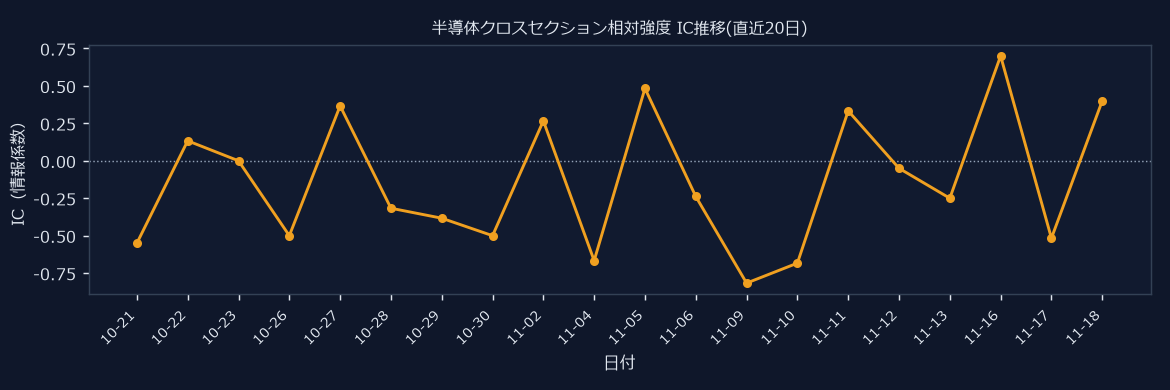
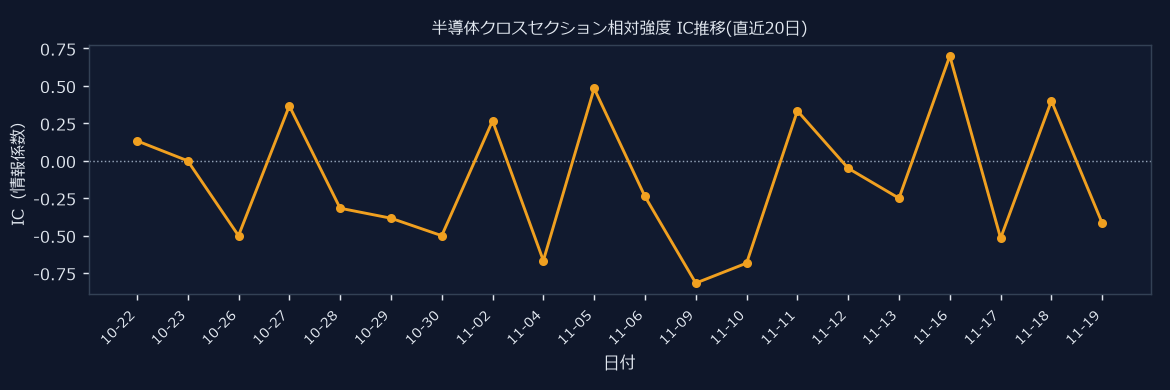
auto: refresh static site (2026-11-19 20:45:55 JST)

diff --git a/docs/index.html b/docs/index.html
@@ -81,8 +81,8 @@ a{color:var(--acc)}.disc{border-top:1px solid var(--border);margin-top:24px;padd
 <body><div class="wrap">
 <h1>🧠 AIセクター ワールドモニター | キオクシア(285A) 投資参考情報（投資は自己責任）</h1>
 <a class="cross-link" href="https://ethanhuntstock.github.io/Keijiban-bunseki/" target="_blank" rel="noopener noreferrer">🔗 285A 掲示板投稿の詳細分析による投資情報（静的版）</a>
-<div class="muted">静的共有版｜生成 2026-11-19 20:35 JST｜価格: Yahoo Finance｜ニュース: RSS｜イベント: 手動正本｜60秒毎に自動更新（ブラウザが自動的に再読み込み）</div>
-<div class="muted">データ取得 11-19 20:35｜公開ページ生成 2026-11-19 20:35 JST（公開サイトへの反映に数分かかることがあります）</div>
+<div class="muted">静的共有版｜生成 2026-11-19 20:45 JST｜価格: Yahoo Finance｜ニュース: RSS｜イベント: 手動正本｜60秒毎に自動更新（ブラウザが自動的に再読み込み）</div>
+<div class="muted">データ取得 11-19 20:45｜公開ページ生成 2026-11-19 20:45 JST（公開サイトへの反映に数分かかることがあります）</div>
 
 <div class="label-note">※「バイアス」「買い目線/売り目線」「発火」「ボラ警戒」は<b>状態を記述するラベル</b>であり売買推奨ではありません。</div>
 <details class="panel"><summary><b>🔤 用語の説明</b>（タップで開く）</summary><ul><li><b>地合いスコア</b>＝マクロ（SOX/円）・メモリ同業・キオクシア固有イベント・ニュース温度を重み付けして合成した観測値。掲示板温度は観測のみ（重み0）。売買推奨ではありません。</li><li><b>型A〜F</b>＝その日の値動きの形を、寄り30分での高安の決まり方と終値の位置から6パターンに機械的に分けたもの（詳細は「本日のチャートの型」の「?」）。場中は暫定です。</li><li><b>ギャップ</b>＝前営業日の終値に対する、寄り値（寄り前は寄り想定）の差の率。</li><li><b>板寄せ</b>＝注文をいったん集めて、売りと買いが釣り合う値段で一度に約定を決める方式（寄り付きと引けで使われます）。</li><li><b>特別気配</b>＝寄り付きで売りと買いが釣り合わないとき、約定せずに気配値だけが示される状態。寄りの約定が遅れる原因の一つです。</li><li><b>寄り値</b>＝その日の最初の約定の価格。寄り前の気配（板の売り買いの気配）とは別の値です。</li><li><b>寄り遅れ日</b>＝285Aの最初の約定が09:00から3分以上遅れた日（観測のみ・原因の断定はしません）。</li></ul></details>
@@ -90,7 +90,7 @@ a{color:var(--acc)}.disc{border-top:1px solid var(--border);margin-top:24px;padd
 <p id='like-button-wrap' class='muted'><button id='like-button' type='button' class='like-btn'>👍</button><span id='like-count-label'>このダッシュボードが役に立ったら押してください（累計 3 いいね）</span></p>
 
 <h2>🤖 AI考察<span class="help" tabindex="0"><span class="help-ico">?</span><span class="help-pop">【数値要約】は、モニターが観測している主要な指標（地合いスコア・285A・ピア・為替・需給・寄りの状態・予定など）の値を、元データのまま定型の文にして約10分ごとに更新する要約です（文章の自動生成はしていません）。<br><br>【Claude考察】は、平日の寄り前・寄り直後・前場引け前・大引け後（急変時は臨時）にClaude(AI)が書いた観測・状況整理で、書かれた時点を明記し、その後の数値は上の数値要約で更新しています。<br><br><b>無料公開データの観測情報であり、投資助言・売買推奨ではありません。</b>更新の時点と周期は、下の「AI考察の予定」を参照してください。値動きへの反映にはタイムラグがあります。</span></span></h2>
-<div class="panel ai-insight-box ai-summary-box"><b>【数値要約｜20:27 更新】</b><div>大引け後・本日(11-19)の終値時点の値</div><div>地合い: 中立 -3.9（前回 11-18 +9.6・前回比 -13.5）／主因=ニュース温度 -7.5pt・メモリピア +3.4pt</div><div>285A: 8,271円（前営業日終値比 +3.07%）・出来高倍率 1.33・テクニカル=弱気・型=寄り底・終日上昇</div><div>ピア: メモリ 平均 +0.79%（最大変動 SKハイニックス +3.41%）／AIチップ/SOX 平均 +1.28%（最大変動 AMD +5.31%）／日本の半導体製造装置関連 平均 +0.77%（最大変動 東京エレクトロン +2.77%）</div><div>為替・先物: USDJPY +0.26%・米10年 5.07%・日経先物 前日比 +2.12%（現物前日終値比 +1.07%）</div><div>需給: 信用倍率 27.10（11-18基準・前営業日比 -2.4%）</div><div>寄り: 寄り完全（遅れ5銘柄・285Aの最初の約定 09:00:14）・費用倍率 直前営業日379.7倍・直近平均352.6倍（往復費用 2.76bp・分割前水準の実測／分割後の試算(暫定) 2.47bp）</div><div>変化点: 前回から大きな変化なし</div><div>予定: 11-23 東証休場(勤労感謝の日)・12-04 米雇用統計(11月分)・12-09 FOMC(12月会合・SEP回・声明は米12-09 14:00 ET=日本時間12-10 04:00)・12-10 米CPI(11月分)・12-11 メジャーSQ(12月限・SQ算出日)（日程は未確定）・12-18 日銀 金融政策決定会合(12月会合・年内最終)</div></div><div class="panel ai-insight-box ai-claude-box"><b>【Claude考察｜11-13 16:36 時点（大引け後）】</b><div>※無料公開データを機械的に集計した観測情報であり、投資助言・売買推奨ではありません。（11-13 大引け後の整理・16:36時点）<br>
+<div class="panel ai-insight-box ai-summary-box"><b>【数値要約｜20:38 更新】</b><div>大引け後・本日(11-19)の終値時点の値</div><div>地合い: 中立 -4.7（前回 11-18 +9.6・前回比 -14.3）／主因=ニュース温度 -7.5pt・メモリピア +3.4pt</div><div>285A: 8,271円（前営業日終値比 +3.07%）・出来高倍率 1.33・テクニカル=弱気・型=寄り底・終日上昇</div><div>ピア: メモリ 平均 +0.79%（最大変動 SKハイニックス +3.41%）／AIチップ/SOX 平均 +1.28%（最大変動 AMD +5.31%）／日本の半導体製造装置関連 平均 +0.77%（最大変動 東京エレクトロン +2.77%）</div><div>為替・先物: USDJPY +0.22%・米10年 5.07%・日経先物 前日比 +2.20%（現物前日終値比 +1.15%）</div><div>需給: 信用倍率 27.10（11-18基準・前営業日比 -2.4%）</div><div>寄り: 寄り完全（遅れ5銘柄・285Aの最初の約定 09:00:14）・費用倍率 直前営業日379.7倍・直近平均352.6倍（往復費用 2.76bp・分割前水準の実測／分割後の試算(暫定) 2.47bp）</div><div>変化点: 前回から大きな変化なし</div><div>予定: 11-23 東証休場(勤労感謝の日)・12-04 米雇用統計(11月分)・12-09 FOMC(12月会合・SEP回・声明は米12-09 14:00 ET=日本時間12-10 04:00)・12-10 米CPI(11月分)・12-11 メジャーSQ(12月限・SQ算出日)（日程は未確定）・12-18 日銀 金融政策決定会合(12月会合・年内最終)</div></div><div class="panel ai-insight-box ai-claude-box"><b>【Claude考察｜11-13 16:36 時点（大引け後）】</b><div>※無料公開データを機械的に集計した観測情報であり、投資助言・売買推奨ではありません。（11-13 大引け後の整理・16:36時点）<br>
 <br>
 ■ 本日の285A<br>
 285Aの本日の終値は9,091円で、前営業日（11-12）の終値9,300円と比べて-2.25%でした。寄り値は9,750円（寄り値の前営業日の終値からの変化は+4.84%）でした。当日高値は9,940円（09:14）、安値は9,013円（13:02）でした。11-12の終値9,300円は11-11の終値9,571円から-2.83%、11-11は11-10の終値9,068円から+5.55%、11-10は11-09の終値8,302円から+9.23%でした。<br>
@@ -108,7 +108,7 @@ a{color:var(--acc)}.disc{border-top:1px solid var(--border);margin-top:24px;padd
 サンディスクは米国時間10-29の取引終了後に2027年度第1四半期決算を発表しました。売上高は110億ドルで前期比+23%・前年同期比+378%、非GAAPの1株利益は49.51ドルでした。第2四半期の売上高見通しは122億〜126億ドルです。あわせて8対1の株式分割（11月19日付）も発表しています。<br>
 <br>
 ■ 需給と今後の予定<br>
-キオクシア（285A）の信用倍率は11-12基準で18.01倍（1つ前の11-11基準は17.71倍）です。今後は11-23に東証休場(勤労感謝の日)、12-04に米雇用統計(11月分)、12-09に米FOMC（米国時間）、12-10に米CPI(11月分)、12-11にメジャーSQ(12月限・SQ算出日)（日程は未確定）が予定されています。以上は将来の値動きを示すものではありません。</div><div class="muted">※この考察は147時間59分前のものです。以降の数値は上の数値要約で更新しています。</div></div><div class="asof-line">根拠データの時点（公開ページ生成時の取得時点）: <span>価格 20:35</span>／<span>マクロ 20:35</span>／<span>ニュース 20:35</span>／<span>掲示板 20:27</span>／<span>地合い 20:35</span></div>
+キオクシア（285A）の信用倍率は11-12基準で18.01倍（1つ前の11-11基準は17.71倍）です。今後は11-23に東証休場(勤労感謝の日)、12-04に米雇用統計(11月分)、12-09に米FOMC（米国時間）、12-10に米CPI(11月分)、12-11にメジャーSQ(12月限・SQ算出日)（日程は未確定）が予定されています。以上は将来の値動きを示すものではありません。</div><div class="muted">※この考察は148時間9分前のものです。以降の数値は上の数値要約で更新しています。</div></div><div class="asof-line">根拠データの時点（公開ページ生成時の取得時点）: <span>価格 20:45</span>／<span>マクロ 20:45</span>／<span>ニュース 20:45</span>／<span>掲示板 20:37</span>／<span>地合い 20:45</span></div>
 <div class="ai-schedule"><b>AI考察の予定</b><div>平日の立会日に、寄り前 08:50／寄り直後 09:10／前場引け前 11:30／大引け後 15:45 の4時点で考察を更新します（考察はClaude(AI)が書きます）。</div><div>土日祝などの休場日は考察を書きません。</div><div>時点の間は、数値のみを約10分ごとに更新します（文章は次の時点まで更新されません）。</div><div>次の予定: 11-20 08:50（寄り前）／直近の更新: 11-13 16:36（大引け後）</div></div>
 
 <h2>🗓 週次サマリー（今週のセクターの流れ）<span class="help" tabindex="0"><span class="help-ico">?</span><span class="help-pop">regime_score_log.csv(既存のOOS台帳と同じ台帳)の直近5営業日を集計しただけの観測パネルです。新規のデータ取得・LLM呼び出しは一切ありません。<br><br><b>観測情報であり売買シグナルではありません。</b>バイアスの当たり外れ(方向的中率)は標本が少なすぎるためここでは判定しません(判定は既存の「📒OOS台帳」を参照)。</span></span></h2>
@@ -123,18 +123,18 @@ a{color:var(--acc)}.disc{border-top:1px solid var(--border);margin-top:24px;padd
 <h2>今日のバイアス（地合いスコア）<span class="help" tabindex="0"><span class="help-ico">?</span><span class="help-pop">複数の判断材料（マクロ・メモリ同業・キオクシア固有イベント・ニュース）を1つに合成した“今日の地合い（売買の傾き）”です。プラスほど買い目線、マイナスほど売り目線。<br><br><b>表の見方</b><br>subscore＝各軸の素点（-1〜+1）／weight＝その軸の重み（合計が1になるよう設計）／寄与＝subscore×weight×100。寄与がプラスの軸ほどバイアスを押し上げ、マイナスの軸ほど押し下げています。<br><br><b>各軸の意味</b><br>マクロ(SOX/円)＝米半導体指数と為替の逆風/追い風／メモリピア＝同業(SKハイニックス・サムスン・マイクロン・サンディスク)の値動き／キオクシア固有イベント(守り)＝決算・増資等の警戒度合い（マイナス方向のみに働く軸）／ニュース温度＝ニュース見出しの強気/弱気を自動採点。<br><br>total_score ＋10超＝ロング寄り／−10未満＝ショート寄り／その間＝中立。<b>機械的な目安で、最終判断は人・1日で断定しない。</b></span></span></h2>
 <div class="panel">
   <span class="bias neutral">中立</span>
-  <span class="score">total -4.8</span>
-  <span class="delta">▼-14.4（前回 11-18 +9.6 中立・変化なし）</span>
-  <div class="muted">時点 11-19 20:35｜status ok
+  <span class="score">total -4.3</span>
+  <span class="delta">▼-13.9（前回 11-18 +9.6 中立・変化なし）</span>
+  <div class="muted">時点 11-19 20:45｜status ok
   </div>
   <img src="images/regime.png" alt="地合いスコア内訳">
-  <table><thead><tr><th>軸</th><th class=num>subscore</th><th class=num>weight</th><th class=num>寄与</th></tr></thead><tbody><tr><td>マクロ(SOX/円)</td><td class=num>-0.0189</td><td class=num>0.35</td><td class='num neg'>-0.66</td></tr><tr><td>メモリピア</td><td class=num>0.1123</td><td class=num>0.3</td><td class='num pos'>+3.37</td></tr><tr><td>キオクシア固有イベント(守り)</td><td class=num>0.0</td><td class=num>0.2</td><td class='num '>+0.00</td></tr><tr><td>ニュース温度</td><td class=num>-0.5</td><td class=num>0.15</td><td class='num neg'>-7.50</td></tr><tr><td>掲示板温度(観測)</td><td class=num>-0.2287</td><td class=num>0.0</td><td class='num '>+0.00</td></tr><tr><td>予想ボラ(観測)</td><td class=num>-0.804</td><td class=num>0.0</td><td class='num '>+0.00</td></tr></tbody></table>
+  <table><thead><tr><th>軸</th><th class=num>subscore</th><th class=num>weight</th><th class=num>寄与</th></tr></thead><tbody><tr><td>マクロ(SOX/円)</td><td class=num>-0.0039</td><td class=num>0.35</td><td class='num neg'>-0.14</td></tr><tr><td>メモリピア</td><td class=num>0.1123</td><td class=num>0.3</td><td class='num pos'>+3.37</td></tr><tr><td>キオクシア固有イベント(守り)</td><td class=num>0.0</td><td class=num>0.2</td><td class='num '>+0.00</td></tr><tr><td>ニュース温度</td><td class=num>-0.5</td><td class=num>0.15</td><td class='num neg'>-7.50</td></tr><tr><td>掲示板温度(観測)</td><td class=num>-0.2276</td><td class=num>0.0</td><td class='num '>+0.00</td></tr><tr><td>予想ボラ(観測)</td><td class=num>-0.804</td><td class=num>0.0</td><td class='num '>+0.00</td></tr></tbody></table>
   <div class="muted">total_score ＋10超＝ロング寄り／−10未満＝ショート寄り／その間＝中立。内訳を見て最終判断は人・1日で断定しない。</div>
-  <div class="plain">掲示板センチメント(強気/弱気の投稿の傾き)を観測用の第5軸として表示しています。今は重みゼロの観測専用で、地合いスコアには含まれません。</div><div class="muted">掲示板温度 -0.23（観測・寄与0）｜灼熱 20／セリクラ 4｜発火 1/9｜11-19 20:27　｜直近6h推移: 強気比<span class="neg">38%</span>（横ばい）</div>
+  <div class="plain">掲示板センチメント(強気/弱気の投稿の傾き)を観測用の第5軸として表示しています。今は重みゼロの観測専用で、地合いスコアには含まれません。</div><div class="muted">掲示板温度 -0.23（観測・寄与0）｜灼熱 20／セリクラ 4｜発火 1/9｜11-19 20:37　｜直近6h推移: 強気比<span class="neg">33%</span>（横ばい）</div>
 </div>
 
 <h2>寄り前ブリーフ<span class="help" tabindex="0"><span class="help-ico">?</span><span class="help-pop">前夜の米国市場（SOX指数・マイクロン等）と為替・金利から、今朝のキオクシア(285A)の寄り付き方向（上ギャップ＝高く始まる/下ギャップ＝安く始まる）を推定します。“攻め”は順張りしやすい地合い、“守り”は慎重・無理しない地合い。<br><br><b>表の項目</b><br>各行＝前夜の米国市場や為替の変化率(値%)に重み(weight)を掛けて寄与に変換したもの。SOX指数（フィラデルフィア半導体指数）＝米半導体株の代表指数／マイクロン(MU)・サンディスク(SNDK)＝キオクシアと同じNAND/DRAM同業の米国株／エヌビディア(NVDA)＝AI需要の代表株／ドル円(USD/JPY)＝前夜からの為替変化（円安＝寄与＋）／米10年金利(^TNX)＝米国債10年利回り（配信値を1/10に正規化。上昇はグロース株に逆風）。</span></span></h2>
-<div class="panel"><div class="plain">前夜の米国市場と為替・金利から、今朝のキオクシア(285A)の寄り付き方向を推定した記述です。▼ 下ギャップ＝高く/安く始まる見立て、「守り」＝攻め(順張りしやすい)/守り(慎重)/中立のいずれか。</div><div class="muted"><b>▼ 下ギャップ</b>　守り　日経先物の前日比（NIY=F） +2.12%（NIY=F）　現物前日終値比 +1.07%（先物終値÷現物2026-11-19終値−1・参考）</div><table><thead><tr><th>項目</th><th class=num>値%</th><th class=num>weight</th><th class=num>寄与</th><th>時点/注記</th></tr></thead><tbody><tr><td>SOX指数（フィラデルフィア半導体）</td><td class='num neg'>-0.49%</td><td class=num>0.3</td><td class='num neg'>-0.146</td><td class=muted>現値%（当日始値→直近値・前日終値比ではない） · 11-19 20:35</td></tr><tr><td>マイクロン（MU）</td><td class='num neg'>-1.00%</td><td class=num>0.15</td><td class='num neg'>-0.150</td><td class=muted>直近の米国引け · 11-19 20:35</td></tr><tr><td>エヌビディア（NVDA）</td><td class='num neg'>-2.89%</td><td class=num>0.15</td><td class='num neg'>-0.434</td><td class=muted>直近の米国引け · 11-19 20:35</td></tr><tr><td>サンディスク（SNDK）</td><td class='num neg'>-2.64%</td><td class=num>0.15</td><td class='num neg'>-0.396</td><td class=muted>直近の米国引け · 11-19 20:35</td></tr><tr><td>ドル円（USD/JPY）</td><td class='num pos'>+0.21%</td><td class=num>0.15</td><td class='num pos'>+0.031</td><td class=muted>夜間変化%（円安=+寄与） · 11-19 20:35</td></tr><tr><td>米10年金利（^TNX）</td><td class='num neg'>-0.73%</td><td class=num>-0.1</td><td class='num pos'>+0.072</td><td class=muted>10年金利(1/10正規化)前日比%・上昇=逆風 · 11-19 20:35</td></tr></tbody></table></div>
+<div class="panel"><div class="plain">前夜の米国市場と為替・金利から、今朝のキオクシア(285A)の寄り付き方向を推定した記述です。▼ 下ギャップ＝高く/安く始まる見立て、「守り」＝攻め(順張りしやすい)/守り(慎重)/中立のいずれか。</div><div class="muted"><b>▼ 下ギャップ</b>　守り　日経先物の前日比（NIY=F） +2.27%（NIY=F）　現物前日終値比 +1.22%（先物終値÷現物2026-11-19終値−1・参考）</div><table><thead><tr><th>項目</th><th class=num>値%</th><th class=num>weight</th><th class=num>寄与</th><th>時点/注記</th></tr></thead><tbody><tr><td>SOX指数（フィラデルフィア半導体）</td><td class='num neg'>-0.49%</td><td class=num>0.3</td><td class='num neg'>-0.146</td><td class=muted>現値%（当日始値→直近値・前日終値比ではない） · 11-19 20:45</td></tr><tr><td>マイクロン（MU）</td><td class='num neg'>-1.00%</td><td class=num>0.15</td><td class='num neg'>-0.150</td><td class=muted>直近の米国引け · 11-19 20:45</td></tr><tr><td>エヌビディア（NVDA）</td><td class='num neg'>-2.89%</td><td class=num>0.15</td><td class='num neg'>-0.434</td><td class=muted>直近の米国引け · 11-19 20:45</td></tr><tr><td>サンディスク（SNDK）</td><td class='num neg'>-2.64%</td><td class=num>0.15</td><td class='num neg'>-0.396</td><td class=muted>直近の米国引け · 11-19 20:45</td></tr><tr><td>ドル円（USD/JPY）</td><td class='num pos'>+0.24%</td><td class=num>0.15</td><td class='num pos'>+0.035</td><td class=muted>夜間変化%（円安=+寄与） · 11-19 20:45</td></tr><tr><td>米10年金利（^TNX）</td><td class='num neg'>-0.73%</td><td class=num>-0.1</td><td class='num pos'>+0.072</td><td class=muted>10年金利(1/10正規化)前日比%・上昇=逆風 · 11-19 20:45</td></tr></tbody></table></div>
 
 <h2>本日のギャップとチャート型の傾向（285A・観測）<span class="help" tabindex="0"><span class="help-ico">?</span><span class="help-pop">前営業日終値から本日の始値（寄り値）がどれだけ離れたか（ギャップ%）と、その向き（アップ／ダウン）と「型」（往復型／トレンド型）との関係を、台帳の直近40営業日で毎朝確かめた結果です。上下とも8日以上あり、往復型の割合の差が20pt以上で統計的にも有意（z値1.64以上）な日だけ傾向文を表示し、確認できない日は「確認されていません」と表示します（発見時の標本では差が見えましたが、その後の期間では差が消えているため固定の傾向文はやめました）。前向きの検証はまだ済んでいません。<b>予測ではなく、売買シグナルでもありません。</b></span></span></h2>
 <div class="panel"><div class="muted">本日のギャップ＝<b>-2.49%</b>（ギャップダウン）</div><div class="plain">直近40営業日の観測では、ギャップの向きと型（往復型／トレンド型）の関係は確認されていません。</div><div class="muted">傾向であり予測ではありません（既視データでの観測にとどまり、前向き検証は未了です）。</div></div>
@@ -153,7 +153,7 @@ a{color:var(--acc)}.disc{border-top:1px solid var(--border);margin-top:24px;padd
 <div class="muted">本日の値動きの型（ローソク足パターン・観測）: 該当パターンなし</div><div class="muted">ダイバージェンス（日足・価格とRSIの逆行・観測）: <span class="badge pos">強気(下げ渋り)</span></div><div class="muted">形状・逆行の機械的な検出であり、いずれも売買シグナルではない。</div>
 </div>
 <div class="panel"><div class="plain">「往復実効費用」とは、株を買ってから売るまでに実質的にかかるコスト（買値と売値の差＝スプレッド等）のことです。今日の値動きの大きさが、このコストの何倍あったかを見ると「動いた分がコストで消えていないか」が分かります。</div><b>往復実効費用との比較（観測）</b><br>本日の値動き 306.5bp ＝ 往復実効費用 2.76bp（板ウォーク実測）（分割前水準・再測定済の試算は下記） の <b class=pos>111.1倍</b><div class="muted">見方: <span class=pos>緑(2倍以上)</span>＝値動きが費用を明確に上回る／<span class=amber>橙(1〜2倍)</span>＝費用に埋もれやすい／<span class=neg>赤(1倍未満)</span>＝費用が値動きを上回る。</div><div class="muted">※分割後の再測定（確定）：分割（2026-09-29）後の板の気配から往復の実質コストを試算すると 2.47bp（36日分・前提=板の気配の差から往復コストを推定）。上の分割前の値は参考です。<br>この試算費用で見ると、本日の値動きは費用の <b>124.3倍</b>（確定）です。</div></div>
-<div class="panel"><div class="plain">「指値注文」とは、買いたい・売りたい値段を自分で指定して出す注文のことです（成行注文はその時の市場価格ですぐ約定しますが、指値はその価格に達するまで待つ注文です）。この表は、その指値注文が実際にどれくらいの割合で成立し（約定率）、成立までに何秒かかったか（約定まで）を銘柄ごとに集計したものです。</div><b>指値執行の質（観測・売買シグナルでない）</b><table><thead><tr><th>銘柄</th><th class=num>約定率</th><th class=num>約定まで(中央)</th></tr></thead><tbody><tr><td>285A</td><td class='num pos'>100.0%</td><td class=num>0.9秒</td></tr><tr><td>6146</td><td class='num pos'>100.0%</td><td class=num>4.4秒</td></tr><tr><td>6920</td><td class='num amber'>76.9%</td><td class=num>4.4秒</td></tr><tr><td>8035</td><td class='num pos'>100.0%</td><td class=num>0.1秒</td></tr></tbody></table><div class="muted">見方: <span class=pos>緑(80%以上)</span>＝指値が機能しやすい／<span class=amber>橙(50〜80%)</span>／<span class=neg>赤(50%未満)</span>＝約定しにくい。</div><div class="muted">執行環境の記述であり売買シグナルではない。pret30s_bpは観測/MDE=50%でまだ検出圏外のため使用しない</div></div>
+<div class="panel"><div class="plain">「指値注文」とは、買いたい・売りたい値段を自分で指定して出す注文のことです（成行注文はその時の市場価格ですぐ約定しますが、指値はその価格に達するまで待つ注文です）。この表は、その指値注文が実際にどれくらいの割合で成立し（約定率）、成立までに何秒かかったか（約定まで）を銘柄ごとに集計したものです。</div><b>指値執行の質（観測・売買シグナルでない）</b><table><thead><tr><th>銘柄</th><th class=num>約定率</th><th class=num>約定まで(中央)</th></tr></thead><tbody><tr><td>285A</td><td class='num pos'>100.0%</td><td class=num>0.9秒</td></tr><tr><td>6146</td><td class='num amber'>66.7%</td><td class=num>20.1秒</td></tr><tr><td>6920</td><td class='num amber'>75.0%</td><td class=num>0.7秒</td></tr><tr><td>8035</td><td class='num pos'>100.0%</td><td class=num>0.1秒</td></tr></tbody></table><div class="muted">見方: <span class=pos>緑(80%以上)</span>＝指値が機能しやすい／<span class=amber>橙(50〜80%)</span>／<span class=neg>赤(50%未満)</span>＝約定しにくい。</div><div class="muted">執行環境の記述であり売買シグナルではない。pret30s_bpは観測/MDE=50%でまだ検出圏外のため使用しない</div></div>
 
 <h2>テクニカル総合判定（285A）<span class="help" tabindex="0"><span class="help-ico">?</span><span class="help-pop">価格・出来高そのものから見た複合判定です。上の「今日のバイアス」（マクロ/同業ピア/キオクシア固有イベント/ニュース由来の複合）とは別の観点で、こちらは日足のテクニカル指標16種(移動平均・MACD・ADX/DI・スーパートレンド・パラボリックSAR・一目雲・RSI・ストキャス・CCI・Williams%R・ボリンジャー%b・OBV傾き・CMF・MFI)を等加重で合議した5段階判定です。両者が同じ方向を向いていれば材料と値動きが揃っている目安です。<br><br><b>MTFマトリックス</b>＝短期(5営業日束ね)/中期(20営業日束ね)/長期(60営業日束ね)の疑似的な3スパンで同じ16指標がどちらを向いているかの一覧。285Aは上場から日が浅く長期側は本数不足で「データ不足」になることがあります。<br><br><b>等加重の記述的集約であり、売買判断・将来予測を保証しません。</b></span></span></h2>
 <div class="panel">
@@ -194,7 +194,7 @@ a{color:var(--acc)}.disc{border-top:1px solid var(--border);margin-top:24px;padd
 <div class="panel"><div class="plain">前日(D0)の米国半導体株の値動きと、その翌営業日(D+1)・翌々営業日(D+2)の日本の半導体株の値動きを、ただ並べて記録しているだけの表です。「米国が上がったから日本も上がる」という因果関係が確認されているわけではありません。</div><div class="muted">① 米国ピア D0（2026-11-19）</div><table><tbody><tr><td>AMD</td><td class='num '>—</td></tr><tr><td>AVGO</td><td class='num '>—</td></tr><tr><td>MU</td><td class='num '>—</td></tr><tr><td>NVDA</td><td class='num '>—</td></tr><tr><td>SNDK</td><td class='num '>—</td></tr><tr><td>TSM</td><td class='num '>—</td></tr></tbody></table><div class="muted">② 日本半導体11銘柄 D+1 / ③ D+2</div><table><thead><tr><th></th><th class=num>D+1</th><th class=num>D+2</th></tr></thead><tbody><tr><td>285A</td><td class='num '>—</td><td class='num '>—</td></tr><tr><td>4062</td><td class='num '>—</td><td class='num '>—</td></tr><tr><td>4063</td><td class='num '>—</td><td class='num '>—</td></tr><tr><td>6146</td><td class='num '>—</td><td class='num '>—</td></tr><tr><td>6526</td><td class='num '>—</td><td class='num '>—</td></tr><tr><td>6723</td><td class='num '>—</td><td class='num '>—</td></tr><tr><td>6857</td><td class='num '>—</td><td class='num '>—</td></tr><tr><td>6920</td><td class='num '>—</td><td class='num '>—</td></tr><tr><td>6963</td><td class='num '>—</td><td class='num '>—</td></tr><tr><td>7735</td><td class='num '>—</td><td class='num '>—</td></tr><tr><td>8035</td><td class='num '>—</td><td class='num '>—</td></tr></tbody></table><div class="muted">（事前登録後・主検定窓に含まれる観測）｜2026-09-06 18:04 JST 事前登録(A1)に基づく観測記録です。判定(GO/NO-GO)はまだ行っていません。主検定窓は2026-09-07以降のデータで、十分な日数が蓄積されるまでは記述としてのみ扱います。売買シグナルではありません。</div></div>
 
 <h2>需給×相対強度（観測）<span class="help" tabindex="0"><span class="help-ico">?</span><span class="help-pop">個人投資家の売買比率の代理指標(個人フロー代理)と、半導体装置・周辺銘柄グループ内での相対的な強さ(クロスセクション相対強度)を並べた観測パネルです。285Aのように株価水準が高い銘柄では個人フロー代理が算出できず「—」表示になることがあります(飽和・捏造ではありません)。クロスセクション相対強度は固定9銘柄バスケット(285A・KOKUSAI ELECTRICは含まれません)の集計値です。<br><br><b>見方（色の意味）</b><br>「個人ネット」・IC は<span class=pos>緑＝プラス</span>／<span class=neg>赤＝マイナス</span>で色分け。「個人シェア」は比率(0〜1)そのもので符号が無いため無色です。<b>色が付いていても判定はまだ出ていません。「今日の並び」という記述としてのみ扱ってください。</b></span></span></h2>
-<div class="panel"><div class="plain">「個人シェア」は、その銘柄の売買のうちどれくらいが個人投資家によるものかの推定値です（100%に近いほど個人中心、低いほど機関投資家等が多い）。「個人ネット」はその個人の売買が買いと売りのどちらに傾いているかを示します。半導体の製造装置・周辺の主要9銘柄をひとまとめにして、その日どの銘柄が相対的に値上がり・値下がりしたかの「並び方の規則性」をIC(情報係数)という数値で表していますが、明日の値動きを予測する力があるとは確認されていません。</div><table><thead><tr><th>銘柄</th><th class=num>個人シェア</th><th class=num>個人ネット</th></tr></thead><tbody><tr><td>285A</td><td class=num>15.9%</td><td class='num neg'>-4.5%</td></tr><tr><td>8035</td><td class=num>36.7%</td><td class='num neg'>-26.2%</td></tr><tr><td>6920</td><td class=num>8.9%</td><td class='num neg'>-15.9%</td></tr><tr><td>6857</td><td class=num>4.9%</td><td class='num neg'>-0.9%</td></tr><tr><td>6146</td><td class=num>18.5%</td><td class='num neg'>-1.9%</td></tr><tr><td>7735</td><td class=num>74.8%</td><td class='num pos'>+3.7%</td></tr><tr><td>6525</td><td class=num>67.0%</td><td class='num neg'>-61.8%</td></tr></tbody></table><div class="muted">クロスセクション相対強度(2026-11-18　gross 29.9bp　net(base) 25.9bp): IC <span class="pos">+0.400</span>　9銘柄固定バスケット(285A・6525は含まれず): 8035,6857,6920,6146,6723,6963,4063,3436,7735</div><div class="muted" style="margin-top:6px">IC推移(直近20日)</div><img src="images/ic_history.png" alt="IC推移"></div>
+<div class="panel"><div class="plain">「個人シェア」は、その銘柄の売買のうちどれくらいが個人投資家によるものかの推定値です（100%に近いほど個人中心、低いほど機関投資家等が多い）。「個人ネット」はその個人の売買が買いと売りのどちらに傾いているかを示します。半導体の製造装置・周辺の主要9銘柄をひとまとめにして、その日どの銘柄が相対的に値上がり・値下がりしたかの「並び方の規則性」をIC(情報係数)という数値で表していますが、明日の値動きを予測する力があるとは確認されていません。</div><table><thead><tr><th>銘柄</th><th class=num>個人シェア</th><th class=num>個人ネット</th></tr></thead><tbody><tr><td>285A</td><td class=num>17.9%</td><td class='num pos'>+9.1%</td></tr><tr><td>8035</td><td class=num>39.6%</td><td class='num neg'>-27.2%</td></tr><tr><td>6920</td><td class=num>10.6%</td><td class='num pos'>+16.4%</td></tr><tr><td>6857</td><td class=num>6.0%</td><td class='num pos'>+0.6%</td></tr><tr><td>6146</td><td class=num>20.4%</td><td class='num pos'>+12.6%</td></tr><tr><td>7735</td><td class=num>71.9%</td><td class='num neg'>-53.0%</td></tr><tr><td>6525</td><td class=num>70.9%</td><td class='num pos'>+39.8%</td></tr></tbody></table><div class="muted">クロスセクション相対強度(2026-11-19　gross -83.3bp　net(base) -87.3bp): IC <span class="neg">-0.417</span>　9銘柄固定バスケット(285A・6525は含まれず): 8035,6857,6920,6146,6723,6963,4063,3436,7735</div><div class="muted" style="margin-top:6px">IC推移(直近20日)</div><img src="images/ic_history.png" alt="IC推移"></div>
 
 </div>
 <div class="tabpane" data-tab-panel="risk">
@@ -207,7 +207,7 @@ a{color:var(--acc)}.disc{border-top:1px solid var(--border);margin-top:24px;padd
 <h3>過去イベント類型(参考・件数集計)</h3><div class=muted>その他 17件／株主総会 1件／決算 11件／金融政策 10件</div><div class="muted">2027-02-12　[決算]　キオクシア 第3四半期決算（10-12月）</div><div class="muted">2026-12-18　[金融政策]　日銀金融政策決定会合（12月）</div><div class="muted">2026-12-11　[その他]　米CPI（11月分）</div></div>
 
 <h2>マクロ（USDJPY / 金利 / FOMC）<span class="help" tabindex="0"><span class="help-ico">?</span><span class="help-pop">円相場・米金利・次回FOMCまでの日数です。円高はキオクシア(輸出採算)に逆風、米金利上昇はグロース半導体のバリュエーションに逆風という見方の目安です。</span></span></h2>
-<div class="panel"><div class="plain">円相場・米金利・次回FOMCまでの日数です。円高はキオクシア(輸出採算)に逆風、米金利上昇はグロース半導体のバリュエーションに逆風という見方の目安です。</div><table><tbody><tr><td>ドル円(USD/JPY)</td><td class="num pos">159.84円 （+0.21%）</td></tr><tr><td>米10年金利(^TNX)</td><td class="num pos">5.07% （-3.7bp）</td></tr><tr><td>次回FOMCまで</td><td class=num>20日（2026-12-09）</td></tr></tbody></table><div class="muted">円高=285A逆風 / 金利上昇=グロース半導体に逆風</div></div>
+<div class="panel"><div class="plain">円相場・米金利・次回FOMCまでの日数です。円高はキオクシア(輸出採算)に逆風、米金利上昇はグロース半導体のバリュエーションに逆風という見方の目安です。</div><table><tbody><tr><td>ドル円(USD/JPY)</td><td class="num pos">159.88円 （+0.23%）</td></tr><tr><td>米10年金利(^TNX)</td><td class="num pos">5.07% （-3.7bp）</td></tr><tr><td>次回FOMCまで</td><td class=num>20日（2026-12-09）</td></tr></tbody></table><div class="muted">円高=285A逆風 / 金利上昇=グロース半導体に逆風</div></div>
 
 </div>
 <div class="tabpane" data-tab-panel="matref">
@@ -232,7 +232,7 @@ a{color:var(--acc)}.disc{border-top:1px solid var(--border);margin-top:24px;padd
 <div class="panel"><div class="plain">285A(キオクシア)以外の半導体製造装置(SPE)関連銘柄の信用残高です。出典・見方は上の285Aパネルと同じ(JPX日次公表・買残÷売残＝信用倍率)。</div><table><thead><tr><th>銘柄</th><th>基準日</th><th class=num>信用買残</th><th class=num>信用売残</th><th class=num>倍率</th><th>直近5営業日の倍率(新しい順)</th></tr></thead><tbody><tr><td>キオクシア（285A）</td><td>2026-11-18</td><td class=num>52,595,100</td><td class=num>1,941,000</td><td class='num amber'>27.10倍</td><td class=muted>11-18 27.10 ／ 11-17 27.77 ／ 11-16 24.22 ／ 11-13 22.99 ／ 11-12 18.01</td></tr><tr><td>ディスコ（6146）</td><td>2026-11-18</td><td class=num>851,900</td><td class=num>126,800</td><td class='num pos'>6.72倍</td><td class=muted>11-18 6.72 ／ 11-17 6.80 ／ 11-16 7.00 ／ 11-13 6.56 ／ 11-12 6.33</td></tr><tr><td>KOKUSAI ELECTRIC（6525）</td><td>2026-11-18</td><td class=num>2,465,600</td><td class=num>358,200</td><td class='num pos'>6.88倍</td><td class=muted>11-18 6.88 ／ 11-17 7.32 ／ 11-16 7.33 ／ 11-13 7.10 ／ 11-12 6.80</td></tr><tr><td>アドバンテスト（6857）</td><td>2026-11-18</td><td class=num>3,987,700</td><td class=num>1,568,500</td><td class='num pos'>2.54倍</td><td class=muted>11-18 2.54 ／ 11-17 2.59 ／ 11-16 2.70 ／ 11-13 2.05 ／ 11-12 2.38</td></tr><tr><td>レーザーテック（6920）</td><td>2026-11-18</td><td class=num>1,340,600</td><td class=num>259,100</td><td class='num pos'>5.17倍</td><td class=muted>11-18 5.17 ／ 11-17 5.92 ／ 11-16 5.98 ／ 11-13 4.24 ／ 11-12 4.07</td></tr><tr><td>SCREEN（7735）</td><td>2026-11-18</td><td class=num>1,229,500</td><td class=num>110,500</td><td class='num pos'>11.13倍</td><td class=muted>11-18 11.13 ／ 11-17 10.57 ／ 11-16 9.90 ／ 11-13 9.02 ／ 11-12 8.49</td></tr><tr><td>東京エレクトロン（8035）</td><td>2026-11-18</td><td class=num>9,831,600</td><td class=num>580,400</td><td class='num amber'>16.94倍</td><td class=muted>11-18 16.94 ／ 11-17 14.91 ／ 11-16 15.00 ／ 11-13 14.01 ／ 11-12 13.77</td></tr></tbody></table><div class="muted">信用取引残高の推移を示す観測データであり、売買シグナルではありません。285A(キオクシア)以外はSPE系(東京エレクトロン/レーザーテック/アドバンテスト/ディスコ/SCREEN/KOKUSAI ELECTRIC)が対象です。</div></div>
 
 <h2>夜間PTS・米国ADR円換算（285A・SPE銘柄）<span class="help" tabindex="0"><span class="help-ico">?</span><span class="help-pop">大引け後のPTS(私設取引システム)と米国ADR(円換算)の直近値です。取引時間外の観測データで、翌営業日の寄り付きを保証するものではありません（nikkei225jp.com公表データ）。</span></span></h2>
-<div class="panel"><div class="plain">大引け後のPTS(私設取引システム・夜間取引)と米国ADR(円換算)の直近値です。変化率はその銘柄のTSE大引け値との比較(取引が無い時間帯は"—")。翌営業日の寄り付きを保証するものではなく、参考の観測情報です。</div><table><thead><tr><th>銘柄</th><th class=num>TSE大引け</th><th class=num>PTS</th><th class=num>米国ADR</th></tr></thead><tbody><tr><td>キオクシア（285A）</td><td class=num>8,271.0円（11/19 15:30）</td><td class=num>8,399.0円（+1.55%・11/19 20:32）</td><td class=num>—</td></tr><tr><td>ディスコ（6146）</td><td class=num>45,100.0円（11/19 15:30）</td><td class=num>46,160.0円（+2.35%・11/19 20:31）</td><td class=num>—</td></tr><tr><td>アドバンテスト（6857）</td><td class=num>27,045.0円（11/19 15:30）</td><td class=num>27,538.0円（+1.82%・11/19 20:31）</td><td class=num>—</td></tr><tr><td>レーザーテック（6920）</td><td class=num>33,320.0円（11/19 15:30）</td><td class=num>33,750.0円（+1.29%・11/19 20:29）</td><td class=num>—</td></tr><tr><td>東京エレクトロン（8035）</td><td class=num>8,940.0円（11/19 15:30）</td><td class=num>9,090.0円（+1.68%・11/19 20:24）</td><td class=num>—</td></tr></tbody></table><div class="muted">出典: nikkei225jp.com（無料公開フィード・観測データ）</div></div>
+<div class="panel"><div class="plain">大引け後のPTS(私設取引システム・夜間取引)と米国ADR(円換算)の直近値です。変化率はその銘柄のTSE大引け値との比較(取引が無い時間帯は"—")。翌営業日の寄り付きを保証するものではなく、参考の観測情報です。</div><table><thead><tr><th>銘柄</th><th class=num>TSE大引け</th><th class=num>PTS</th><th class=num>米国ADR</th></tr></thead><tbody><tr><td>キオクシア（285A）</td><td class=num>8,271.0円（11/19 15:30）</td><td class=num>8,420.0円（+1.80%・11/19 20:39）</td><td class=num>—</td></tr><tr><td>ディスコ（6146）</td><td class=num>45,100.0円（11/19 15:30）</td><td class=num>46,160.0円（+2.35%・11/19 20:31）</td><td class=num>—</td></tr><tr><td>アドバンテスト（6857）</td><td class=num>27,045.0円（11/19 15:30）</td><td class=num>27,538.0円（+1.82%・11/19 20:40）</td><td class=num>—</td></tr><tr><td>レーザーテック（6920）</td><td class=num>33,320.0円（11/19 15:30）</td><td class=num>33,750.0円（+1.29%・11/19 20:29）</td><td class=num>—</td></tr><tr><td>東京エレクトロン（8035）</td><td class=num>8,940.0円（11/19 15:30）</td><td class=num>9,116.0円（+1.97%・11/19 20:34）</td><td class=num>—</td></tr></tbody></table><div class="muted">出典: nikkei225jp.com（無料公開フィード・観測データ）</div></div>
 
 <h2>半導体拠点マップ（一覧）<span class="help" tabindex="0"><span class="help-ico">?</span><span class="help-pop">メモリ/ファウンドリ/装置/データセンターの世界の主要拠点と、台湾海峡など輸送・地政学リスク地点の一覧です（インタラクティブな地図はライブ版でのみ表示）。地政学ニュースが出た時に「どこの話か・サプライチェーンへの影響」を把握する手がかりになります。</span></span></h2>
 <div class="panel"><div class="plain">メモリ/ファウンドリ/装置/データセンターの世界の主要拠点と、台湾海峡など輸送・地政学リスク地点の一覧です（地図はライブ版でのみ表示）。地政学ニュースが出た時に「どこの話か・サプライチェーンへの影響」を把握する手がかりになります。</div><table><tbody><tr><td class=muted>メモリ</td><td>キオクシア 四日市工場</td><td class=muted>キオクシア(285A)/サンディスク主力NAND拠点。世界最大級のNAND生産。BiCS FLASH量産の中核</td></tr><tr><td class=muted>メモリ</td><td>キオクシア 北上工場</td><td class=muted>キオクシアの新世代NAND(BiCS第8世代)増強拠点。岩手県北上市</td></tr><tr><td class=muted>メモリ</td><td>SKハイニックス 利川</td><td class=muted>SKハイニックスの主力DRAM/HBM拠点。AI向けHBMで世界首位級</td></tr><tr><td class=muted>メモリ</td><td>サムスン 華城(ファソン)</td><td class=muted>サムスン電子のメモリ/ファウンドリ拠点。DRAM・NAND・ロジック</td></tr><tr><td class=muted>メモリ</td><td>サムスン 平沢(ピョンテク)</td><td class=muted>サムスン最大級メモリ拠点。先端DRAM/NAND/HBM増強</td></tr><tr><td class=muted>メモリ</td><td>マイクロン 広島工場</td><td class=muted>マイクロンの先端DRAM拠点(日本)。EUV導入のDRAM量産</td></tr><tr><td class=muted>メモリ</td><td>マイクロン 本社/ボイシ</td><td class=muted>マイクロン(MU)本社・米国DRAM拠点。NAND/DRAMピア</td></tr><tr><td class=muted>ファウンドリ</td><td>TSMC 新竹</td><td class=muted>TSMC本拠・先端ロジックの中核。AIチップ(NVIDIA/AMD)を受託製造</td></tr><tr><td class=muted>ファウンドリ</td><td>TSMC 熊本(JASM)</td><td class=muted>TSMCの日本ファウンドリ(JASM)。ソニー/デンソー連携。第2工場計画</td></tr><tr><td class=muted>ファウンドリ</td><td>TSMC アリゾナ</td><td class=muted>TSMC米国拠点。先端ノードの域内供給</td></tr><tr><td class=muted>ファウンドリ</td><td>インテル ファウンドリ</td><td class=muted>インテルのファウンドリ事業。先端ロジック内製/受託</td></tr><tr><td class=muted>equipment</td><td>ASML フェルトホーフェン</td><td class=muted>EUV露光装置の独占供給(オランダ)。先端半導体製造の死活的ボトルネック</td></tr><tr><td class=muted>equipment</td><td>東京エレクトロン(8035)</td><td class=muted>成膜/エッチング等の製造装置大手(日本)。SPEヒートマップの中核銘柄</td></tr><tr><td class=muted>equipment</td><td>アプライド・マテリアルズ</td><td class=muted>米製造装置最大手。WFE市況のバロメーター</td></tr><tr><td class=muted>equipment</td><td>レーザーテック(6920)</td><td class=muted>EUVマスク検査で独占的(日本)。SPE銘柄</td></tr><tr><td class=muted>equipment</td><td>アドバンテスト(6857)</td><td class=muted>半導体テスタ大手(日本)。AI/HBMテスト需要で注目。SPE銘柄</td></tr><tr><td class=muted>データセンター</td><td>NVIDIA 本社</td><td class=muted>AI GPU設計の中核(米サンタクララ)。AIチップ需要の震源</td></tr><tr><td class=muted>チョークポイント</td><td>台湾海峡</td><td class=muted>先端半導体供給の地政学的要衝。封鎖/緊張は全AI半導体に波及するチョークポイント</td></tr><tr><td class=muted>チョークポイント</td><td>マラッカ海峡</td><td class=muted>東アジア半導体サプライチェーンの海上物流要衝</td></tr><tr><td class=muted>geopolitics</td><td>米中 半導体規制(対中輸出規制)</td><td class=muted>対中先端半導体/装置の輸出規制。需給・各社売上の地政学リスク軸</td></tr></tbody></table></div>
